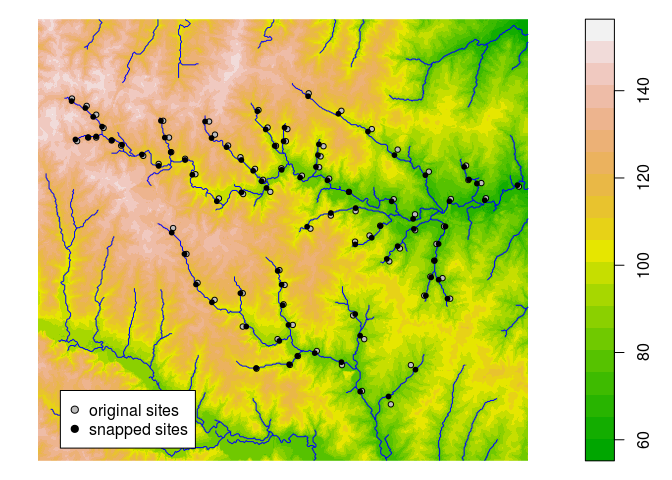
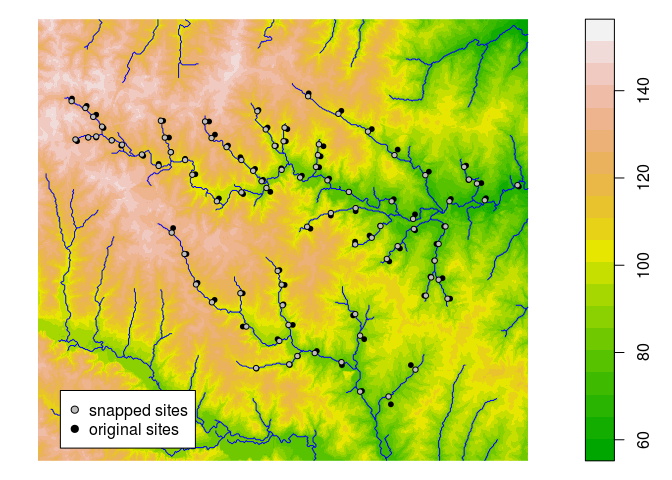
prepare CRAN submission 2

diff --git a/README.md b/README.md
@@ -21,6 +21,14 @@ A functional installation of [GRASS GIS (>=7.0)](https://grass.osgeo.org/#) with
 [r.hydrodem](https://grass.osgeo.org/grass70/manuals/addons/r.hydrodem.html) is needed.
 These add-ons can be installed from within GRASS using the console and g.extension or in the GUI under 'Settings'/'Addons extensions'/'Install extensions from add-ons' under 'raster'.
 
+Installation from CRAN repository:
+
+```r
+install.packages("openSTARS")
+library("openSTARS")
+```
+
+For the lastest github version of openSTARS (carefull, might be experimental):
 
 ```r
 # install.packages("devtools")
@@ -38,9 +46,9 @@ library(openSTARS)
 initGRASS(gisBase = "/usr/lib/grass72/",
           home = tempdir(),
           override = TRUE)
-#> gisdbase    /tmp/Rtmpl0kXK5 
-#> location    file13d762b46c02 
-#> mapset      file13d75c436e68 
+#> gisdbase    /tmp/RtmpQq5CYy 
+#> location    file2d877f1b2fdb 
+#> mapset      file2d876d285359 
 #> rows        1 
 #> columns     1 
 #> north       1 
@@ -139,7 +147,7 @@ points(sites, pch = 16, col = cols)
 
 ![](README_files/figure-html/plot_data2-1.png)<!-- -->
 
-### Check the network
+### Check and correct the network
 Next, the stream network should be checked if there are stream segments with more than two inflows. This must be corrected because the .ssn object must not have such complex junctions. In the nc data set provided, there will be no complex junctions.
 
 
@@ -148,6 +156,22 @@ cp <- check_compl_junctions()
 if (cp)
   correct_compl_junctions()
 ```
+
+An example of a complex junction and the correction would look like this:
+
+![Original network with complex junction. Arrows indicate flow direction.](README_files/compl_junction1.PNG)  ![Corrected network. Arrows indicate flow direction.](README_files/compl_junction2.PNG)
+
+*Left* Original network with complex junction (i.e. three inflows to one outflow). 
+*Right* Corrected network. Arrows indicate flow direction.
+
+The end node of the inflowing segment with the smalles angle to the outflowing 
+segment is moved 0.25 times the cell size of the DEM downstream. The outflowing
+segment is split into tow parts at this new junction. All features are corrected
+accordingly (cat, length, prev_str01, prev_str02, next_str etc.). Currently, this 
+only works for three inflows to the same outflow but not more.
+
+Other topological errors as mentioned for the ArcGIS toolbox STARS do not occur
+if the stream network is derived from a DEM
 
 ### Prepare edges
 Now, information needed for the .ssn object can be derived for the streams and stored in a new vector map `edges`.
@@ -229,9 +253,9 @@ sites_orig <- readVECT("sites_o", ignore.stderr = TRUE)
 edges <- readVECT("edges", ignore.stderr = TRUE)
 plot(dem, col = terrain.colors(20))
 lines(edges, col = "blue")
-points(sites_orig, pch = 21, cex=0.75, bg = "grey")
-points(sites, pch = 20, col = "black")
-legend(x = par("usr")[1]*1.002, y = par("usr")[3]*1.01, col = 1, pt.bg = "grey", pch = c(21, 19), legend = c("original sites","snapped sites"))
+points(sites_orig, pch = 20, col = "black")
+points(sites, pch = 21, cex=0.75, bg = "grey")
+legend(x = par("usr")[1]*1.002, y = par("usr")[3]*1.01, col = 1, pt.bg = "grey", pch = c(21, 19), legend = c("snapped sites", "original sites"))
 ```
 
 ![](README_files/figure-html/plot_data3-1.png)<!-- -->
@@ -341,7 +365,7 @@ calc_attributes_sites_exact(sites_map = "sites",
 #> v.out.ogr complete. 87 features (Point type) written to <sites> (SQLite
 #> format).
 #> OGR data source with driver: SQLite 
-#> Source: "/tmp/Rtmpl0kXK5/file13d762b46c02/PERMANENT/.tmp/mira-mint/638.0", layer: "sites"
+#> Source: "/tmp/RtmpQq5CYy/file2d877f1b2fdb/PERMANENT/.tmp/mira-mint/970.0", layer: "sites"
 #> with 87 features
 #> It has 16 fields
 sites <- readVECT("sites", ignore.stderr = TRUE)

diff --git a/cran-comments.md b/cran-comments.md
@@ -8,9 +8,17 @@ output: html_document
 ## Test environments
 * Linux Mint 18.2 Sonya, R 3.4.1
 * Windows 7, R 3.4.1
+* win-builder (devel and release)
 
 ## R CMD check results
-There were no ERRORs, WARNINGs or NOTEs.
+There were no ERRORs or WARNINGs.
+
+There was one NOTE (on win-builder):
+* checking CRAN incoming feasibility ... NOTE
+Maintainer: 'Mira Kattwinkel <mira.kattwinkel@gmx.net>'
+
+This is a stable e-mail address and the spam filter set to let through e-mails 
+from the domain r-project.org.
 
 Notes on 'no visible binding for global variable' for (fixed) data.table column
 names are prevented by including them as utils::globalVariables.

diff --git a/NEWS.md b/NEWS.md
@@ -1,0 +1,3 @@
+# openSTARS 1.0.0
+
+* First CRAN release Aug. 2017
